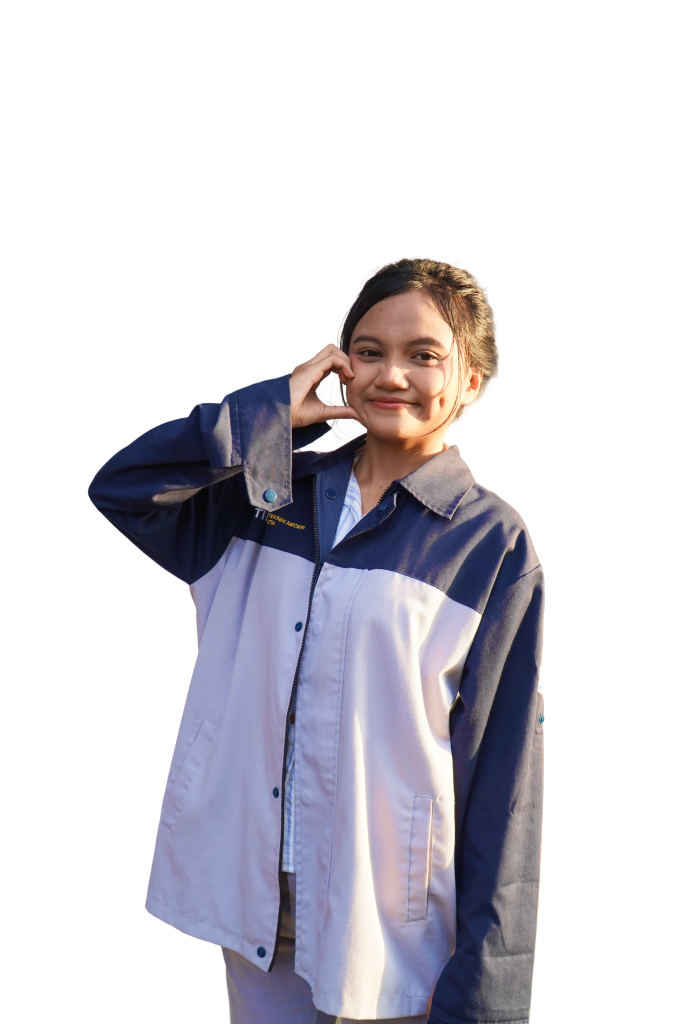
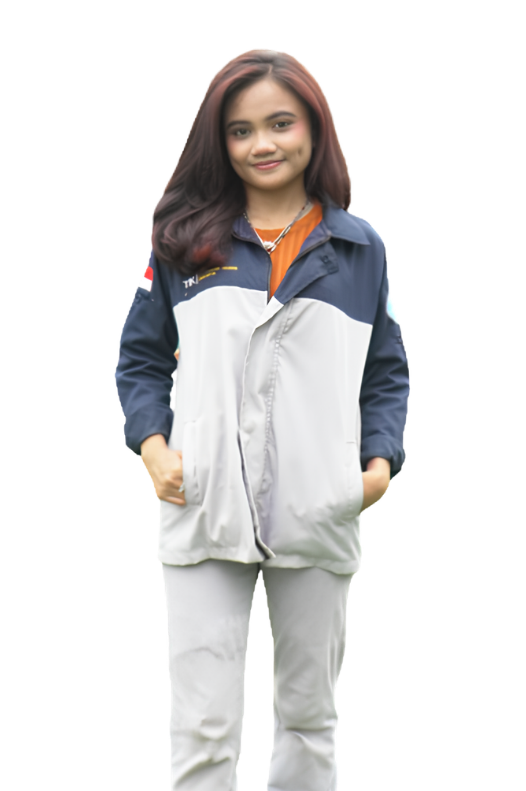
feat: update background overlay mask position

diff --git a/src/components/sections/BackgroundOverlay.tsx b/src/components/sections/BackgroundOverlay.tsx
@@ -92,7 +92,7 @@ export default function BackgroundOverlay({ isMobile }: BackgroundOverlayProps) 
         </div>
         <div
           className="absolute h-[1134px] left-[843px] mask-alpha mask-intersect mask-no-clip mask-no-repeat mask-position-[-938px_74px] mask-size-[1563px_985px] w-[756px]"
-          style={{ maskImage: `url("${programBackgroundMask}")`, top: 6972 + offset }}
+          style={{ maskImage: `url("${programBackgroundMask}")`, top: 7229 + offset }}
           data-node-id="1:660"
           data-name="DSC04588 1"
         >
